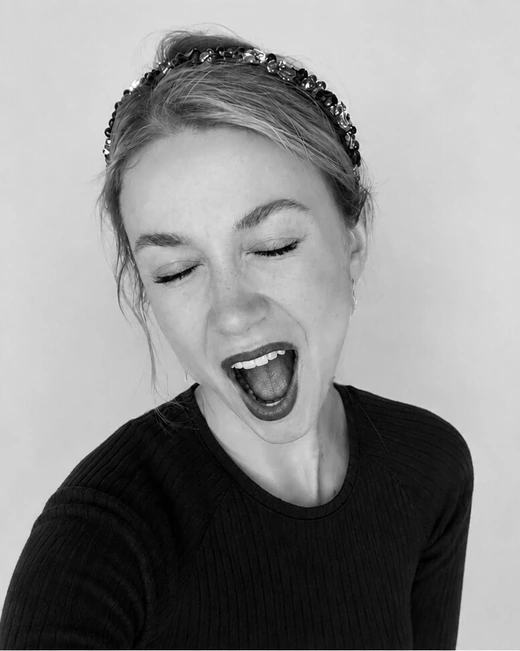
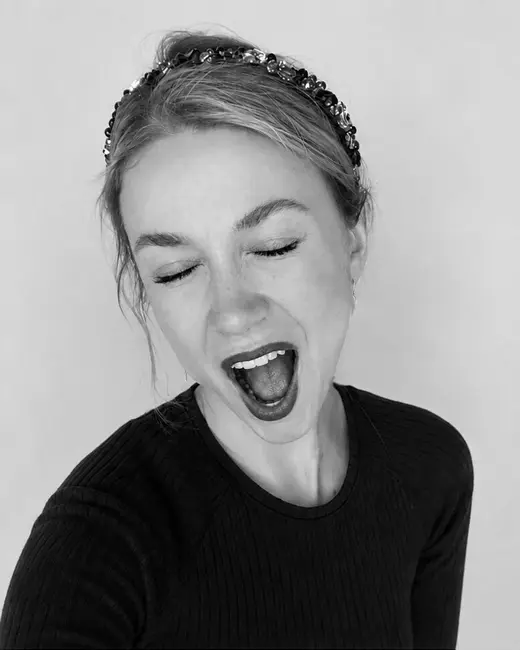
feat(hero): new portrait pair and social cards
- both frames replaced with a new photographed pair at 776x970 / 520x650;
  the box's aspect-ratio and the image height follow the new proportion
- calm ?v=4 and wink ?v=3, so the preload, the <picture> sources and the
  JSON-LD image all move to the new URLs and no browser keeps the old frame
- og-en.png and og-es.png re-rendered from the new calm frame; make-og.mjs
  finds Chrome on Windows and passes it a proper file URL
- the new files are lighter: delivery baseline re-recorded (first paint
  1165 -> 1129 ms, full load 2203 -> 1953 ms)

diff --git a/website/src/render.js b/website/src/render.js
@@ -136,7 +136,7 @@ function header(lang, copy, anchorBase = "") {
 const portraitSizes =
   "(max-width: 1099px) min(84vw, 416px), min(54svh, calc(42vw - 220px))";
 
-const portraitVersions = { calm: 3, wink: 2 };
+const portraitVersions = { calm: 4, wink: 3 };
 
 const portraitPreload = () => {
   const url = (width) => `/assets/portrait/calm-${width}.webp?v=${portraitVersions.calm}`;
@@ -157,7 +157,7 @@ function hero(copy, years) {
         base: state,
         alt: copy.hero.portraitAlt,
         widths: [520, 776],
-        height: 971,
+        height: 970,
         sizes: portraitSizes,
         className: `portrait-frame portrait-${state}`,
         lazy: index === 1,

diff --git a/website/src/styles/components.css b/website/src/styles/components.css
@@ -110,7 +110,7 @@
   position: relative;
   isolation: isolate;
   /* The exact aspect of the source pair — zero crop, zero drift. */
-  aspect-ratio: 776 / 971;
+  aspect-ratio: 776 / 970;
   overflow: hidden;
   border-radius: var(--radius-md);
   background: var(--ground-sunk);

diff --git a/website/src/styles/sections.css b/website/src/styles/sections.css
@@ -101,7 +101,7 @@
     left: min(35%, calc(100% - var(--print-w) - 232px));
     top: calc(20svh - 10px);
     width: var(--print-w);
-    aspect-ratio: 776 / 971;
+    aspect-ratio: 776 / 970;
   }
 }
 

diff --git a/AGENTS.md b/AGENTS.md
@@ -389,12 +389,12 @@ Client pick of 2026-09-17, variant 10 "Brand dot" of a 10-variant show
   2026-08-28 after a two-day experiment with a separate Why me slide. The
   wink frame is the composite described in `README.md` (the rock-expression
   face registered onto the calm body); its production rules live in git
-  history with the retired experiments. The wink frame sits at `?v=2`: its
-  pixels are the ones production has always served, grain included — a
-  re-encode at the calm frame's weight smoothed the skin, so it was kept.
-  The calm frame's WebP files were re-encoded at quality 80 on 2026-10-01
-  (20% lighter, visually unchanged) and sit at `?v=3`; `portraitVersions`
-  in `render.js` holds both numbers.
+  history with the retired experiments. On 2026-10-02 the owner's side
+  replaced both frames with a new photographed pair at 776×970 / 520×650
+  (the box's `aspect-ratio` and the `height` in `render.js` follow it): calm
+  sits at `?v=4`, wink at `?v=3`, both held in `portraitVersions` in
+  `render.js` — bump the one whose pixels change. The social cards were
+  re-rendered from the new calm frame the same day.
 - The calm frame is the mobile LCP element. It is preloaded from the head
   with the same `imagesrcset`/`imagesizes` as its `<source>`, and the wink
   frame is `loading="lazy"`: it is in the viewport, so it still loads right
